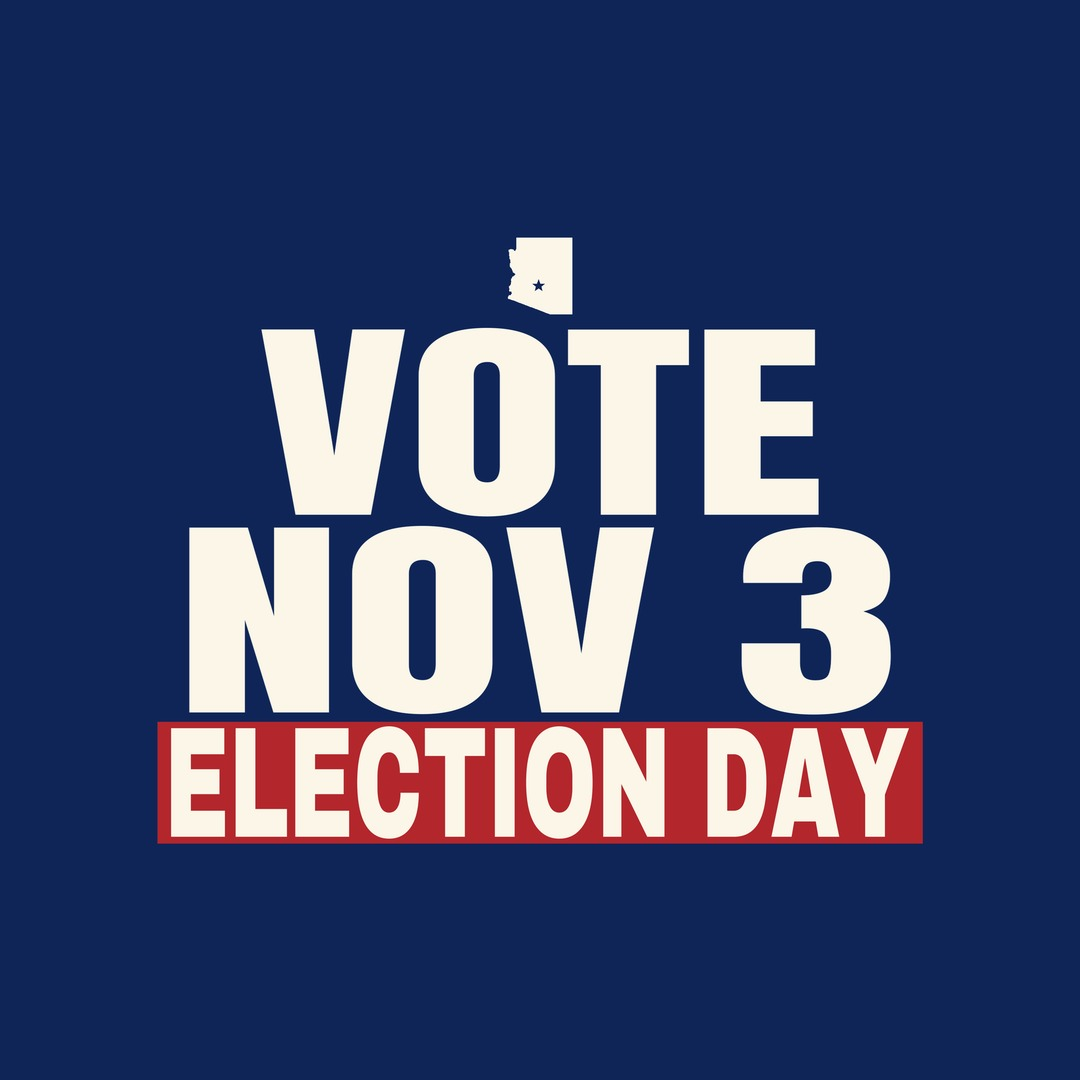
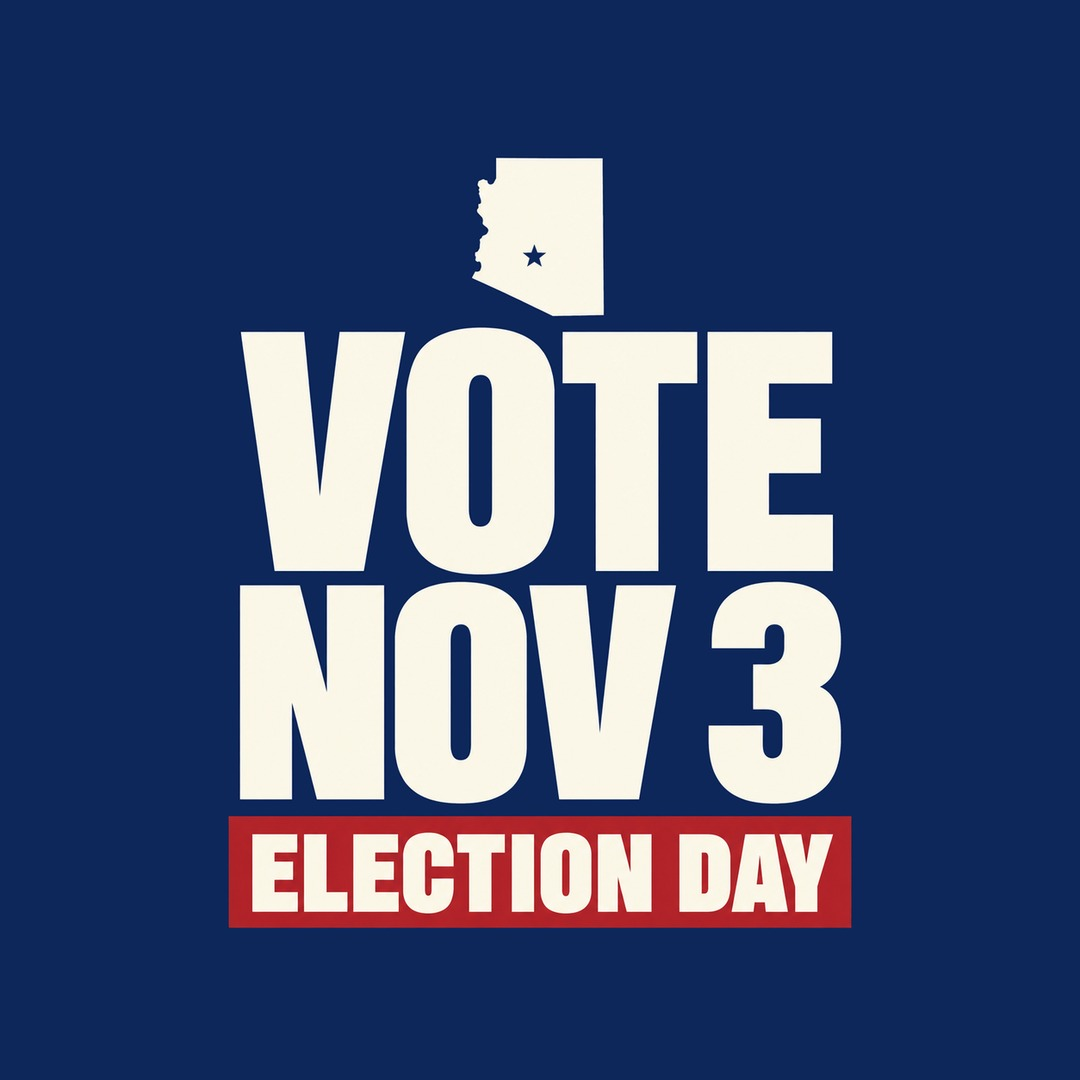
Arizona: 10 new ready-mades from Codex; retire the earlier set
Claude-Session: https://claude.ai/code/session_01U4jJBSt3CnGjJYrtPzNn5q

Changed region(s): [[0.1222, 0.1222, 0.8556, 0.8861]]

diff --git a/site/index.php b/site/index.php
@@ -83,7 +83,7 @@ function vote_files( $abbr ) {
 
 // The state hero shows one standout ready-made, tilted (October 20, Garrett): the design named here,
 // or the first in the set. Numbers match <abbr>-vote-N.jpg.
-const VOTE_HERO = array( 'MS' => 5, 'MI' => 7, 'ID' => 7, 'NJ' => 5, 'OR' => 5, 'MN' => 6, 'NE' => 6, 'AL' => 6 );
+const VOTE_HERO = array( 'MS' => 5, 'MI' => 7, 'ID' => 7, 'NJ' => 5, 'OR' => 5, 'MN' => 6, 'NE' => 6, 'AL' => 6, 'AZ' => 6 );
 function vote_hero_file( $abbr ) {
 	$n = VOTE_HERO[ $abbr ] ?? 0;
 	$k = strtolower( $abbr );
